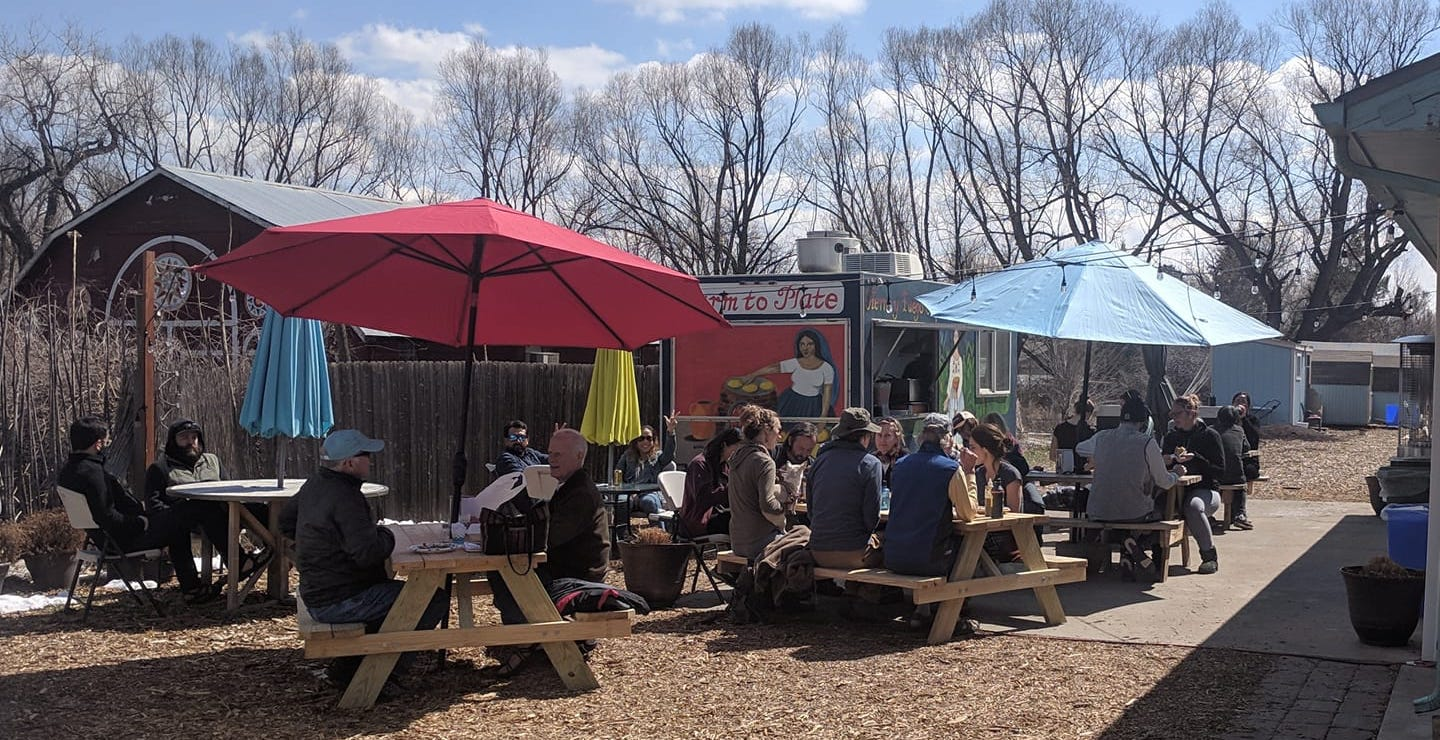
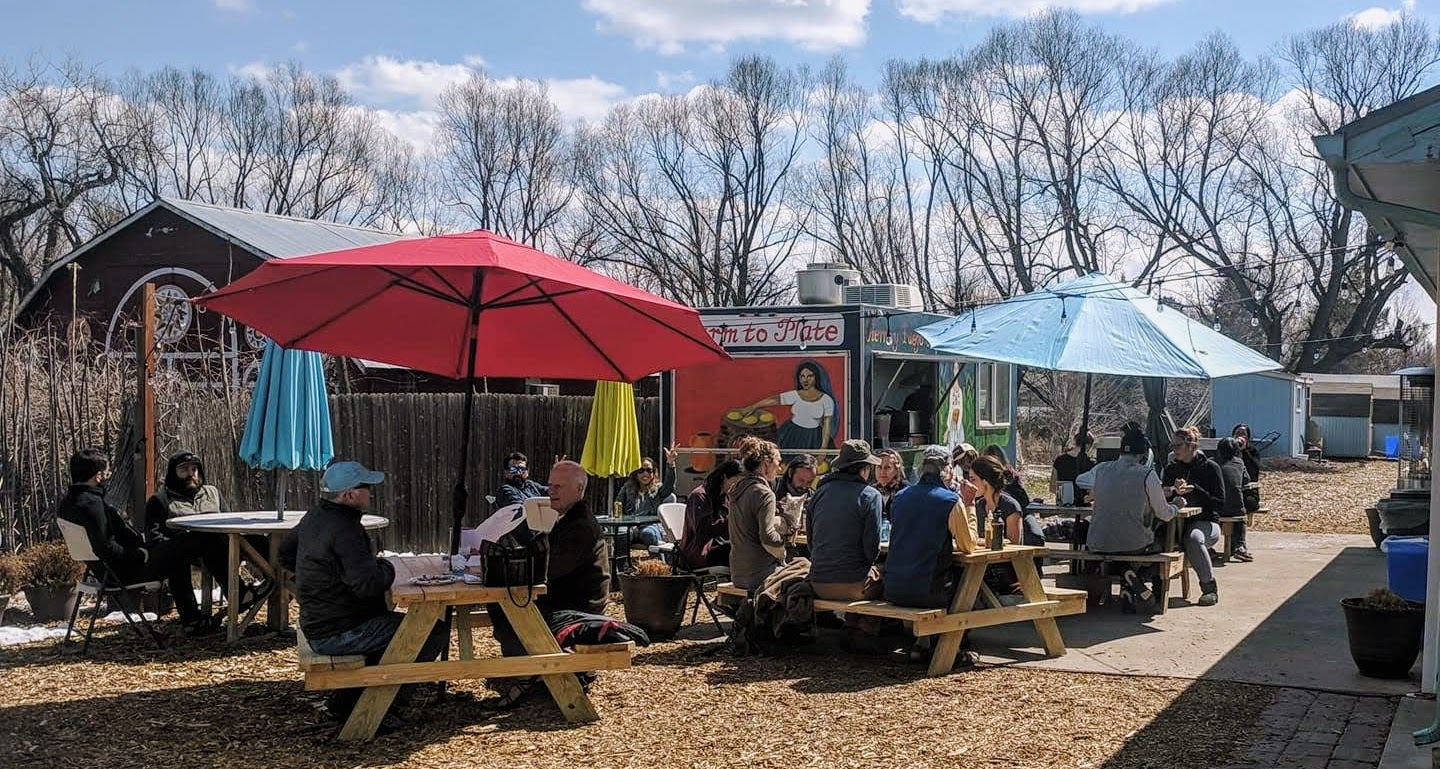
Edit Farm-Picnic Photo

diff --git a/style.css b/style.css
@@ -195,7 +195,7 @@ footer .links > div {
 }
 
 #farm-picnic {
-    background: url(images/farm-picnic.jpg) no-repeat bottom center;
+    background: url(images/farm-picnic.jpg) no-repeat center center;
     background-size: cover;
     height: 31rem;
 }
